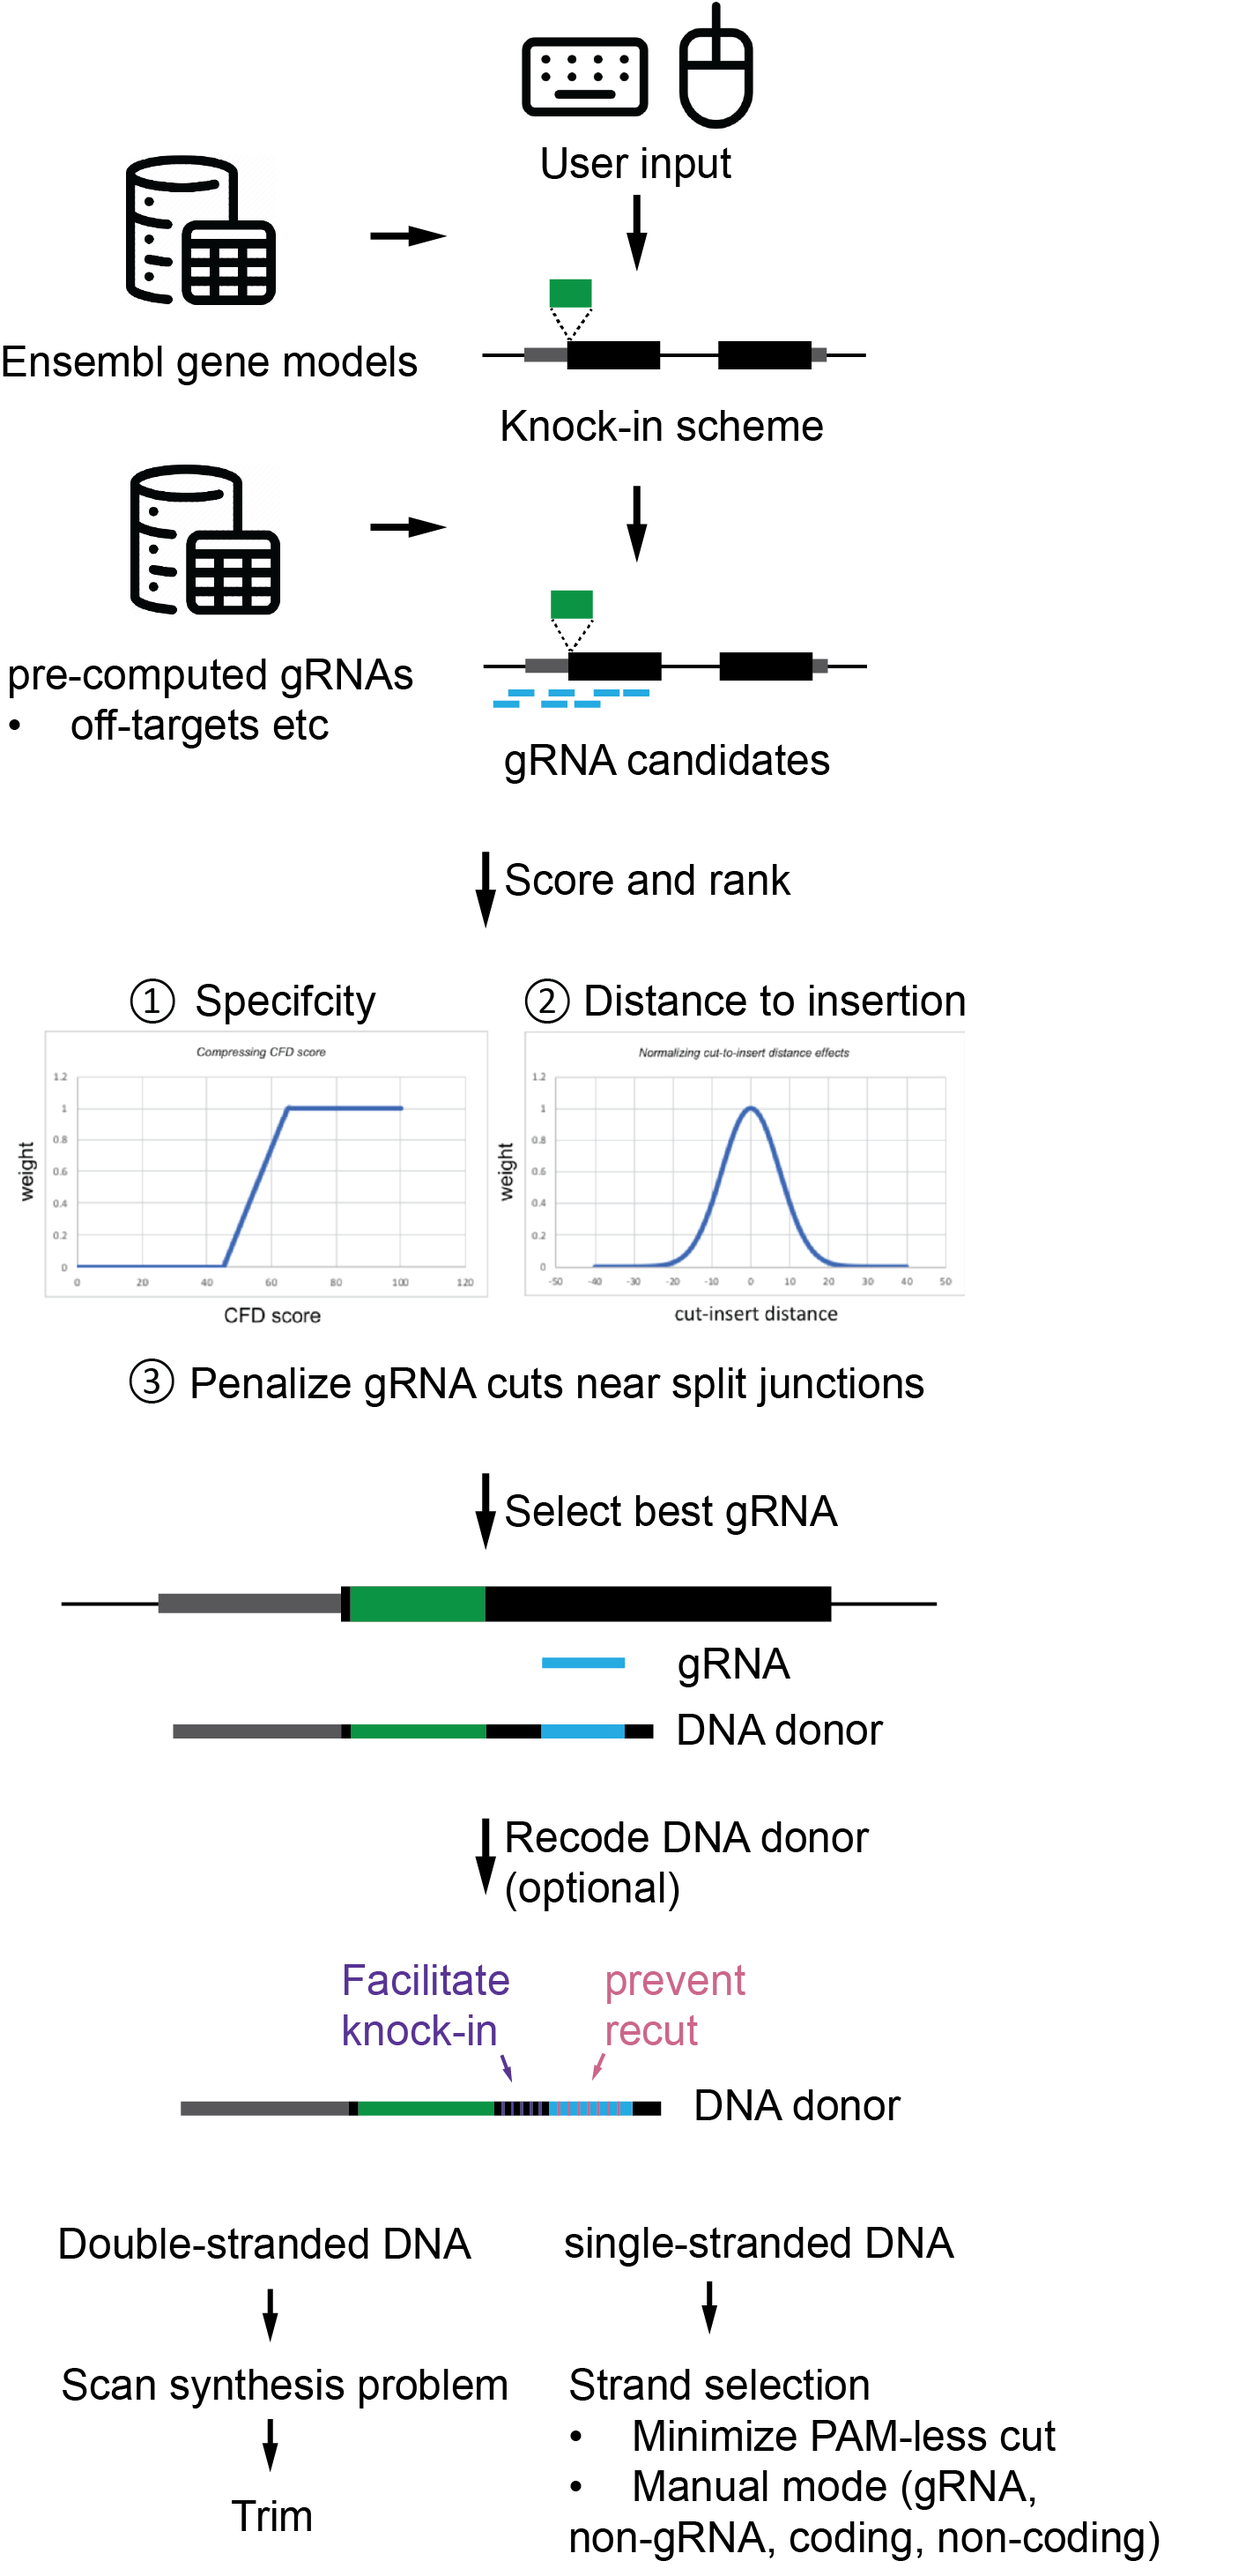
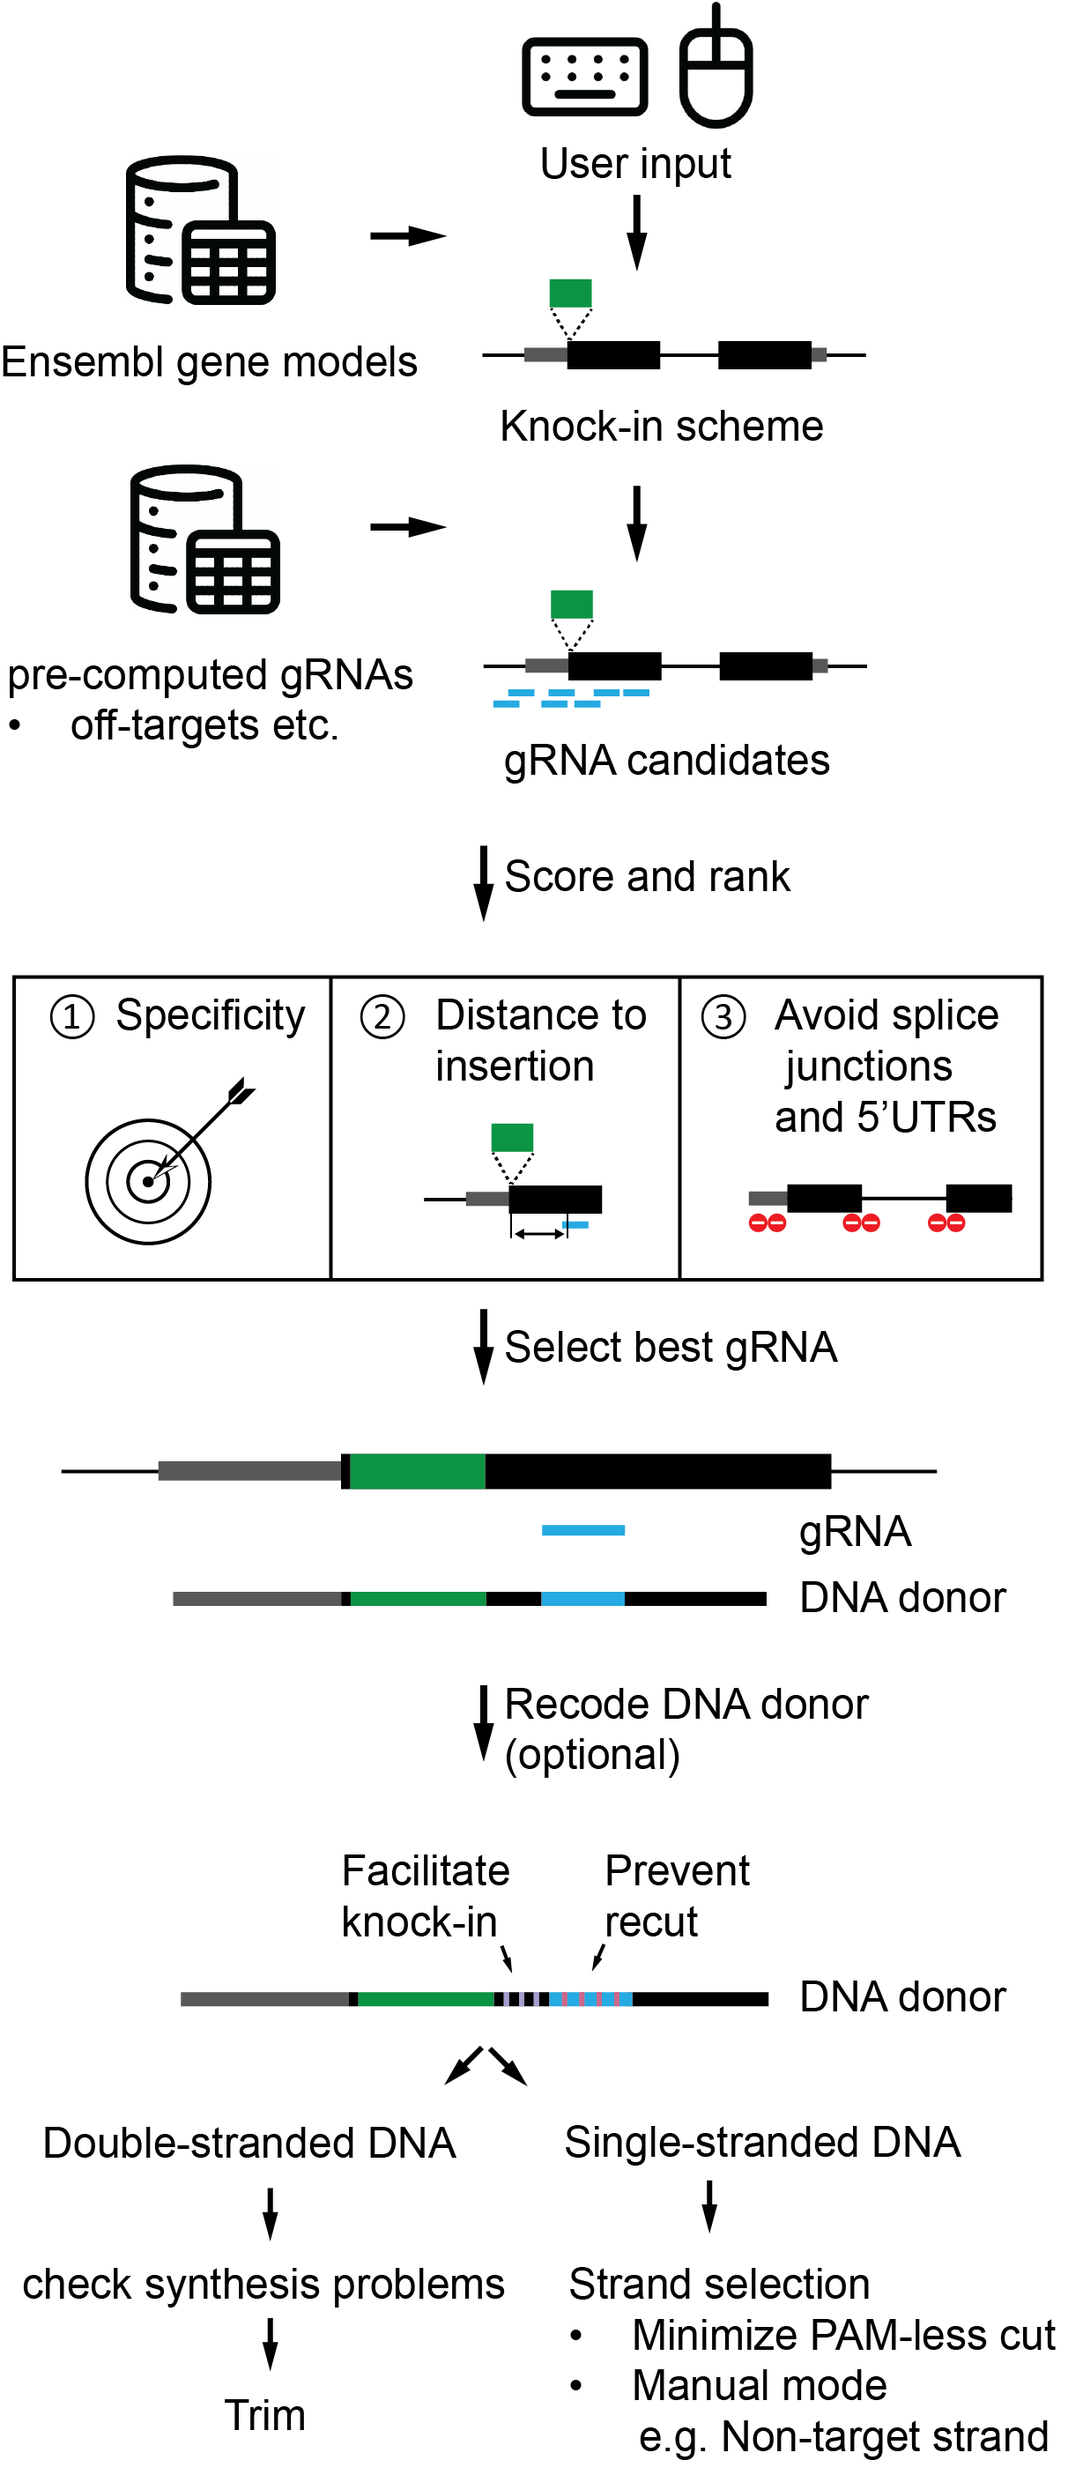
add gRNA scoring and recoding strategy

diff --git a/docs/source/algorithm.rst b/docs/source/algorithm.rst
@@ -1,10 +1,28 @@
 Algorithm 
 =========
 
+Overview
+--------
+
 .. figure:: /_static/images/Algorithm.png
+   :width: 75%
+   :align: center
+   :alt: Algorithm_overview
+
+gRNA scoring
+------------
+.. figure:: /_static/images/gRNA.png
    :width: 100%
    :align: center
-   :alt: Algorithm
+   :alt: gRNA_scoring
+
+
+Recoding strategy
+-----------------
+.. figure:: /_static/images/recode.png
+   :width: 100%
+   :align: center
+   :alt: Recode_stragety
 
    
 .. autosummary::
